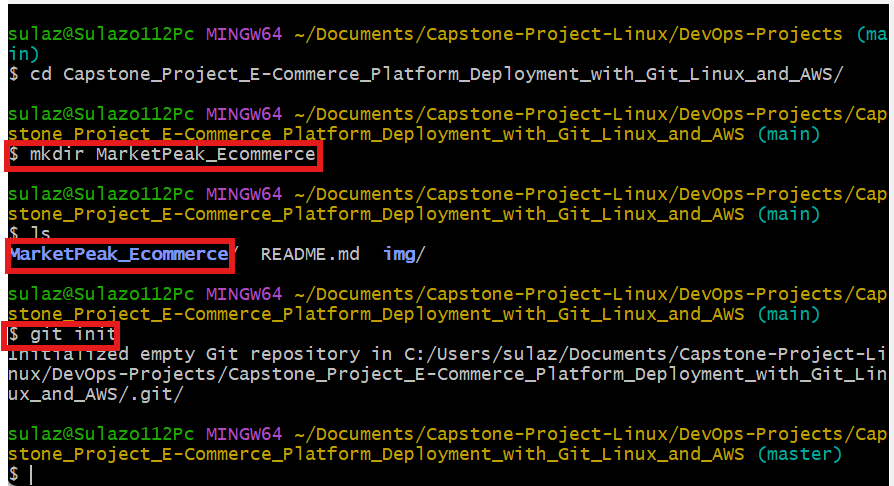
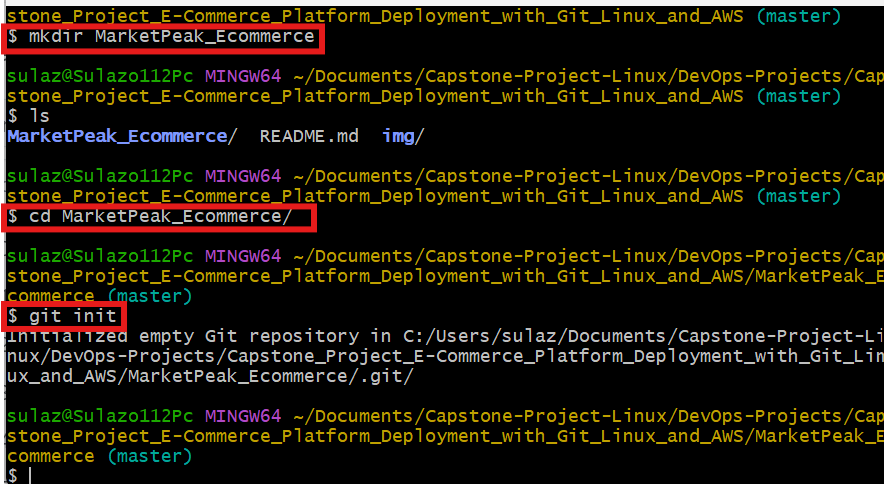
Capstone_Project_E-Commerce_Platform_Deployment_with_Git_Linux_and_AWS

diff --git a/README.md b/README.md
@@ -168,4 +168,83 @@ To serve the website from the EC2 instance, lets configure httpd to point to the
 
 Prepare the Web Directory: Clear the default httpd web directory and copy MarketPeak Ecommerce website files to it.
 
+sudo rm -rf /var/www/html/* sudo cp -r ~/MarketPeak_Ecommerce/* /var/www/html/
+
+![Sudo rm sudo cp](./img/sudo%20rm%20sudo%20cp.png)
+
+The directory /var/www/html/ is a standard directory structure on Linux systems that host web content, particularly for the Apache HTTP Server.
+
+When you install Apache on a Linux system, the installation process automatically creates this directory. It's designated as the default document root in Apache's configuration, meaning that Apache is set up to serve web files (such as HTML, CSS, and JavaScript files) located in this directory to visitors of your website.
+
+Reload httpd: Apply the changes by reloading the httpd service.
+
+sudo systemctl reload httpd
+
+2.5. Access Website from Browser
+
+With httpd configured and website files in place, MarketPeak Ecommerce platform is now live on the internet:
+
+Let's open a web browser and access the public IP of our EC2 instance to view the deployed website.
+
+My web page using ec2 IP: 16.171.181.110
+
+![My web page using ec2 Ip](./img/My%20web%20page%20using%20ec2%20IP.png)
+
+![Web page using public DNS](./img/Web%20page%20using%20public%20DNS.png)
+
+# 3. Continuous Integration and Deployment Workflow
+
+To ensure a smooth workflow for developing, testing, and deploying our e-commerce platform, follow this structured approach. It covers making changes in a development environment, utilizing version control with Git, and deploying updates to your production server on AWS.
+
+Step 1: Developing New Features and Fixes
+
+Create a Development Branch: Begin your development work by creating a separate branch. This isolates new features and bug fixes from the stable version of our website.
+
+![Git branches](./img/Git%20branches.png)
+
+Implement Changes: On the development branch, add your new features or bug fixes. This might include updating web pages, adding new products, or fixing known issues.
+
+Step 2: Version Control with Git
+
+Stage Your Changes: After making your changes, add them to the staging area in Git. This prepares the changes for a commit.
+
+![Gitadd](./img/gitadd.png)
+
+Commit Your Changes: Securely save your changes in the Git repository with a commit. Include a descriptive message about the updates.
+
+![Gitcommit](./img/gitcommit.png)
+
+Push Changes to GitHub: Upload your development branch with the new changes to GitHub. This enables collaboration and version tracking.
+
+![Gitpush](./img/gitpush.png)
+
+Step 3: Pull Requests and Merging to the Main branch
+
+Create a Pull Request (PR): On GitHub, create a pull request to merge the development branch into the main branch. This process is crucial for code review and maintaining code quality.
+
+Review and Merge the PR: Review the changes for any potential issues. Once satisfied, merge the pull request into the main branch, incorporating the new features or fixes into the production codebase.
+
+![Pull](./img/pull.png)
+
+Push the Merged Changes to GitHub: Ensure that your local main branch, now containing the updates, is pushed to the remote repository on GitHub.
+
+![Pushcheckout](./img/pushcheckout.png)
+
+Step 4: Deploying Updates to the Production Server
+
+Pull the Latest Changes on the Server: SSH into your AWS EC2 instance where the production website is hosted. Navigate to the website's directory and pull the latest changes from the main branch.
+
+![Pullfromec2](./img/pullfromec2.png)
+
+Restart the Web Server (if necessary): Depending on the nature of the updates, you may need to restart the web server to apply the changes.
+
+![Restartwebserver](./img/restartwebserver.png)
+
+Step 5: Testing the New Changes
+
+Access the Website: Open a web browser and navigate to the public IP address of your EC2 instance. Test the new features or fixes to ensure they work as expected in the live environment.
+This workflow emphasizes best practices in software development and deployment, including branch management, code review through pull requests, and continuous integration/deployment strategies. By following these steps, you maintain a stable and up-to-date production environment for your e-commerce platform.
+
+End.
+
 
